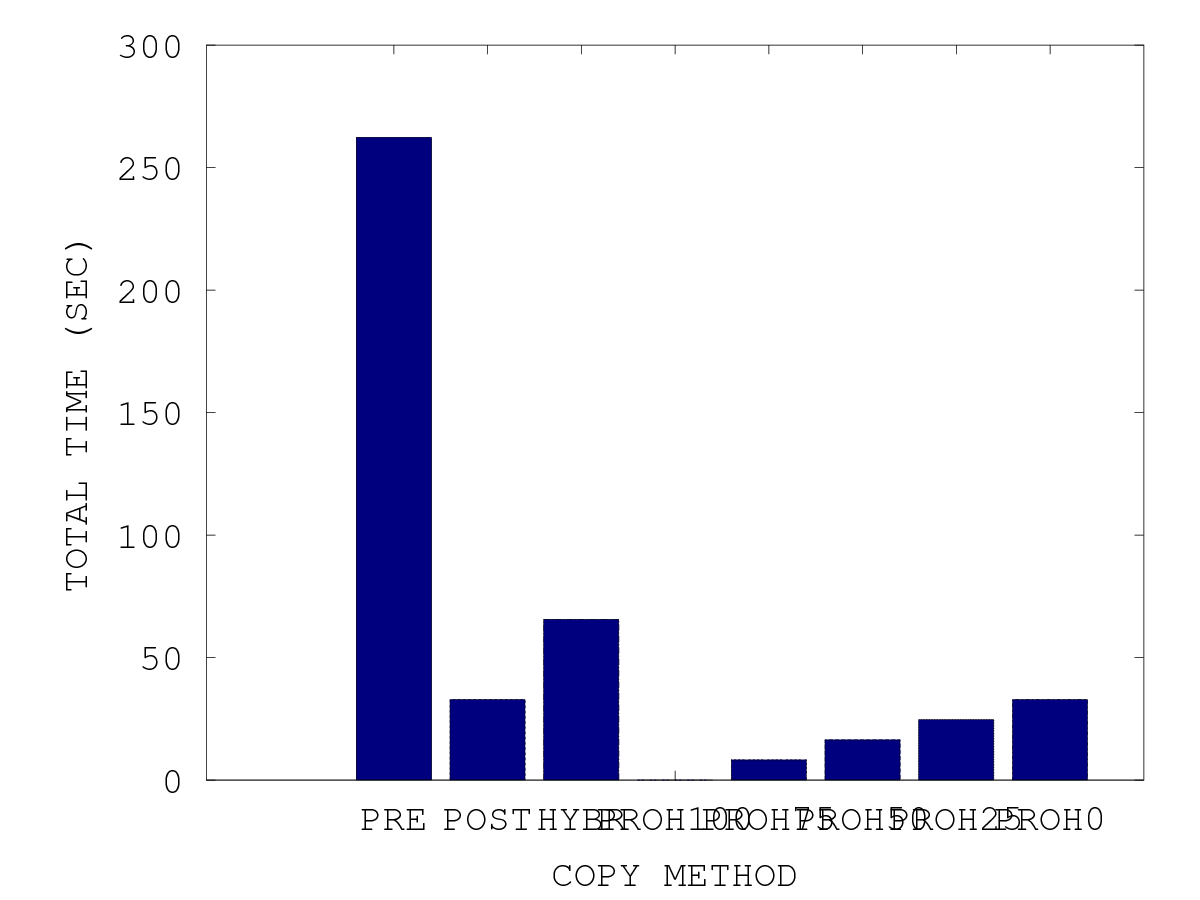
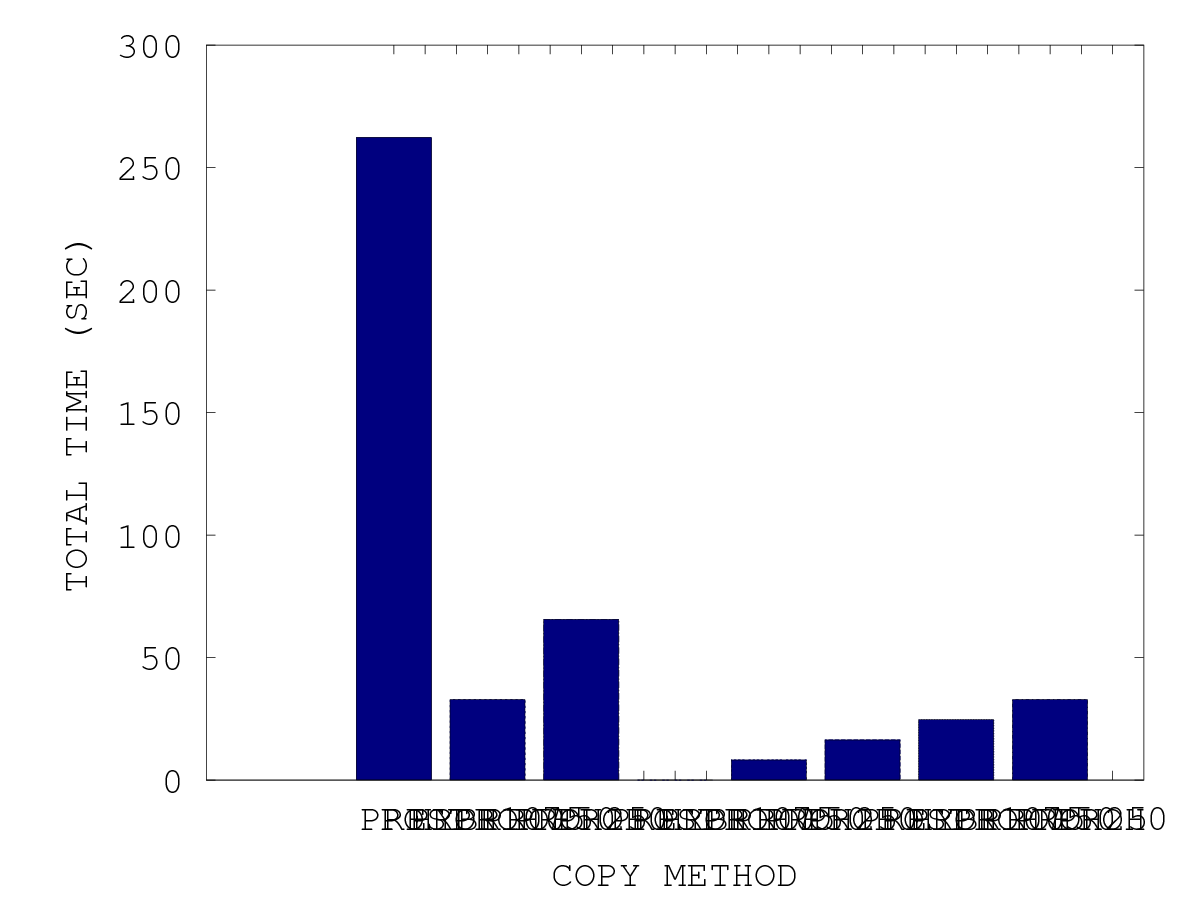
basic.m

Changed region(s): [[0.3083, 0.8711, 0.9558, 0.9333]]

diff --git a/basic.m b/basic.m
@@ -281,7 +281,8 @@ xintervals = 1:xinterval:xinterval*length(x);
 %bar(xtics, A(:,1))
 %bar(A(:,1), XTicksLabelStyle = Diagonal)
 bar(xintervals, A(:,1))
-set(gca, 'XTick', xintervals, 'XTickLabel', x, 'FontSize', fontsize)
+set(gca, 'XTick', 1:24, 'XTickLabel', x, 'FontSize', fontsize)
+%set(gca, 'XTick', xintervals, 'XTickLabel', x, 'FontSize', fontsize)
 xlabel('COPY METHOD', 'FontSize', fontsize);
 ylabel('TOTAL TIME (SEC)', 'FontSize', fontsize);
 %legend('PRECOPY', 'POSTCOPY', 'HYBRID', 'PRO-HYBRID');
